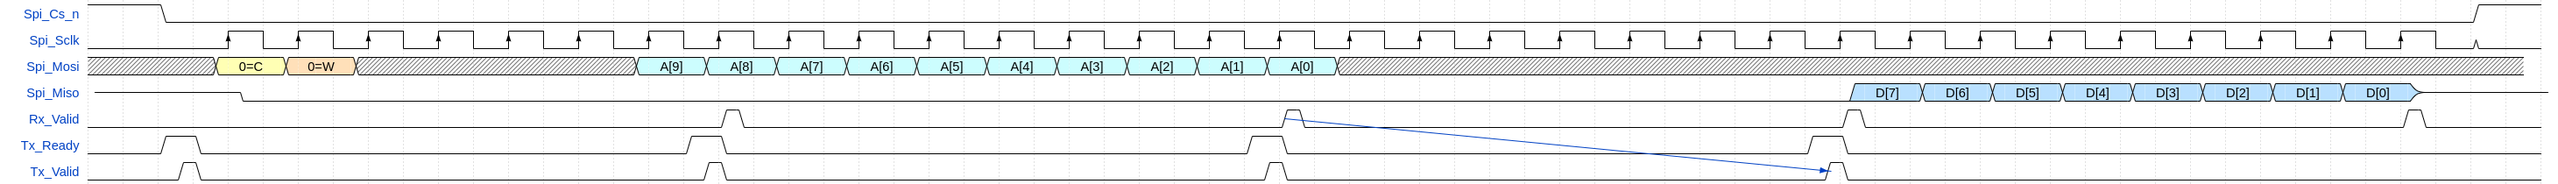
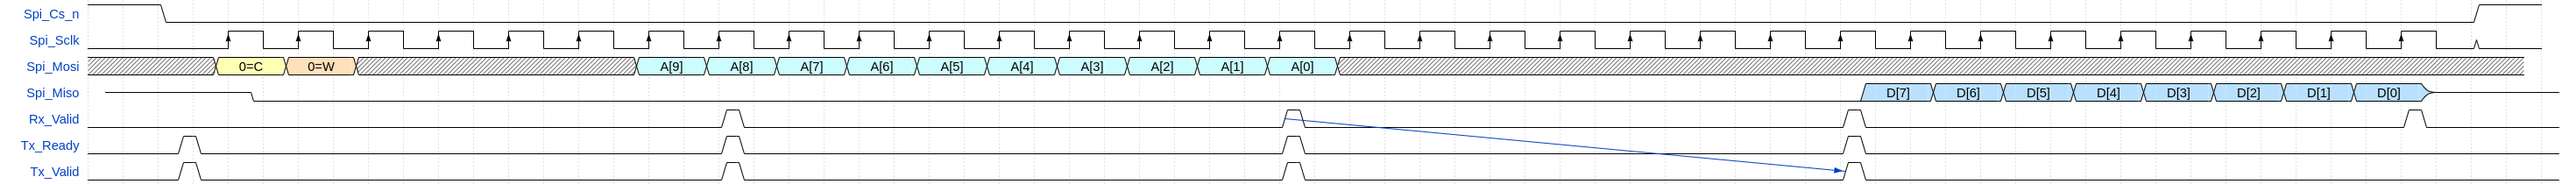
Complete fast SCLK handling

diff --git a/sim/run.py b/sim/run.py
@@ -374,7 +374,9 @@ for InternalTriState in [True, False]:
 clkFreq = int(100e6)
 for CPHA in [0, 1]:
     named_config(tb, {'SpiCpha_g': CPHA, 'ClkFrequency_g': clkFreq, 'BusFrequency_g' : int(clkFreq/6),
-                      'ConsecutiveTransactions_g' : False})
+                      'ConsecutiveTransactions_g' : True})
+    named_config(tb, {'SpiCpha_g': CPHA, 'ClkFrequency_g': clkFreq, 'BusFrequency_g': int(clkFreq/8),
+                      'ConsecutiveTransactions_g': True})
 
 
 ########################################################################################################################

diff --git a/doc/intf/olo_intf_spi_slave.md b/doc/intf/olo_intf_spi_slave.md
@@ -29,7 +29,7 @@ On the user-side there are 3 AXI4-Stream interfaces:
 
 The all SPI signals are properly synchronized to *Clk* using [olo_intf_sync](./olo_intf_sync.md) within *olo_intf_spi_slave*.
 
-The maximum supported *Spi_Sclk* frequency is 6x less than the *Clk* frequency. However, timing might be tight in this case (one *Clk* cycle margin) - if propagation times are significant in an application, higher ratios between *Spi_Sclk* and *Clk* may be required.
+The maximum supported *Spi_Sclk* frequency is 10x less than the *Clk* frequency (with some tricks up to 6x less).
 
 ## Generics
 
@@ -47,10 +47,10 @@ The maximum supported *Spi_Sclk* frequency is 6x less than the *Clk* frequency. 
 
 ### Control
 
-| Name | In/Out | Length | Default | Description                                     |
-| :--- | :----- | :----- | ------- | :---------------------------------------------- |
-| Clk  | in     | 1      | -       | Clock - Frequency must e at least 6x higher than *Spi_Sclk* frequecy                                            |
-| Rst  | in     | 1      | -       | Reset input (high-active, synchronous to *Clk*) |
+| Name | In/Out | Length | Default | Description                                                  |
+| :--- | :----- | :----- | ------- | :----------------------------------------------------------- |
+| Clk  | in     | 1      | -       | Clock - Frequency must e at least **10x higher than *Spi_Sclk* frequecy**<br />For higher SCLK frequencies refer to [Achieving High SCLK Frequencies](#Achieving-High-SCLK-Frequencies) |
+| Rst  | in     | 1      | -       | Reset input (high-active, synchronous to *Clk*)              |
 
 ### RX Data Interface
 
@@ -91,7 +91,7 @@ All signals in the response interface are single cycle pulses. The user may also
 | Name       | In/Out | Length | Default | Description                                                  |
 | :--------- | :----- | :----- | ------- | :----------------------------------------------------------- |
 | Spi_Cs_n   | in     | 1      | N/A     | SPI chip select (low-active).                                |
-| Spi_Sclk   | in     | 1      | N/A     | SPI clock.<br />Frequency must be at least **6x lower than *Clk* frequency**. |
+| Spi_Sclk   | in     | 1      | N/A     | SPI clock.<br />Frequency must be at least **10x lower than *Clk* frequency**.<br />For higher SCLK frequencies refer to [Achieving High SCLK Frequencies](#Achieving-High-SCLK-Frequencies) |
 | Spi_Mosi   | in     | 1      | '0'     | SPI data from master to slave.<br />Can be left unconnected if only the slave does send data. |
 | Spi_Miso   | out    | 1      | N/A     | Used only if **InternalTriState_g = true**<br />SPI data from slave to master. <br />Can be left unconnected if the only the master does send data. |
 | Spi_Miso_t | out    | 1      | N/A     | Used only if **InternalTriState_g = false**<br />*Spi_Miso* Tri-State signal ('1' = tristated, '0' drive)<br />Can be left unconnected if the only the master does send data. |
@@ -114,7 +114,8 @@ For CPHA = 1, the sampling happens on the second edge (blue) and data is applied
 
 The implementation in *olo_intf_spi_slave* is slightly different. Data is sampled and applied on the same edge. Reason for this implementation is that the propagation delay from an incoming *Spi_Sclk* edge until the *Spi_Miso* data is updated is relatively long (4 clock cycles). As a result *Spi_Miso* hold-time is uncritical - and in contrast *Spi_Miso* setup time is critical. To maximize the allowed *Spi_Sclk* frequency, it is optimal to apply *Spi_Miso* output data as soon as possible (4 clock cycles after) the *Spi_Sclk* sampling edge.
 
-**--> Add figure of this <.--**
+<p align="center"><img src="spi/spi_slave_timing_margin1.png"> </p>
+<p align="center"> Meaning of LsbFirst_g </p>
 
 #### LsbFirst_g
 
@@ -194,6 +195,16 @@ The propagation delay from *Spi_Sclk* edges to the application of *Spi_Miso* dat
 * One clock cycle for the edge detection
 * One clock cycle for setting *Spi_Miso*
 
+#### Achieving High SCLK Frequencies
+
+*Spi_Sclk* frequencies above 1/10 of the *Clk* frequencies is possible with some special considerations, which violate the normal AXI4-Stream handshaking.
+
+For *Spi_Sclk* frequencies between 1/8 and 1/10 of the *Clk* frequency, ensure that *Tx_Valid* goes high not more than two clock cycles after *Tx_Ready* is asserted. This limitation applies even if *Tx_Ready* stays high for longer.
+
+For *Spi_Sclk* frequencies between 1/6 and 1/8 of the *Clk* frequency, ensure that *Tx_Valid* goes high not more than one clock cycle after *Tx_Ready* is asserted. This limitation applies even if *Tx_Ready* stays high for longer.
+
+For high *Spi_Sclk* frequencies, the *Spi_Miso* line is timing critical regarding routing.
+
 ### Protocol Examples
 
 This section provides different possible SPI protocol definitions for an SPI register access with 10-bit register address and 8-bit register data. The aim is the sowcase the effect of different configuration options.
@@ -233,15 +244,14 @@ Using 8-bit consecutive transactions, it is possible to build a protocol that sh
 
 There is half a clock period between the last sample edge of the second byte (when the address and the command is known) and the first transmit edge of the third byte (by when TX data must be passed) if the *Spi_Sclk* frequency is significantly lowr than the *Clk* frequency. Hence it is possible to pass read-data through *Tx_...* between Bit[8] and Bit[7] of the transaction (between the second and third 8-bit transaction for the slave).
 
-**--> Shift Timing in Figure <--**
 <p align="center"><img src="spi/spi_slave_proto_cons8_read.png"> </p>
-<p align="center"> Write Command </p> 
+<p align="center"> Read Command </p> 
 
 The only drawback of this solution is, that a small FSM is required to handle the different 8-bit transactions (from a slave perspective) that make up a 24-bit transaction (from master perspective).
 
 #### Consecutive Transactions 8 bit - Fast SCLK
 
-In case of high *Spi_Sclk* frequencies, it is not always possible to provide the next *Tx_Data* quick enough after *Rx_Valid*. In this case 32-bits (4 x 8 bits) are required and the additional data-byte is inserted to allow for more time for gnerating *Tx_Data* after the address was received through *Rx_Data*. 
+In case of high *Spi_Sclk* frequencies (see [Achieving High SCLK Frequencies](#Achieving-High-SCLK-Frequencies)), it is not always possible to provide the next *Tx_Data* quick enough after *Rx_Valid*. In this case 32-bits (4 x 8 bits) are required and the additional data-byte is inserted to allow for more time for gnerating *Tx_Data* after the address was received through *Rx_Data*. 
 
 Because this topic affects read only, only the read transaction is shown. 
 
